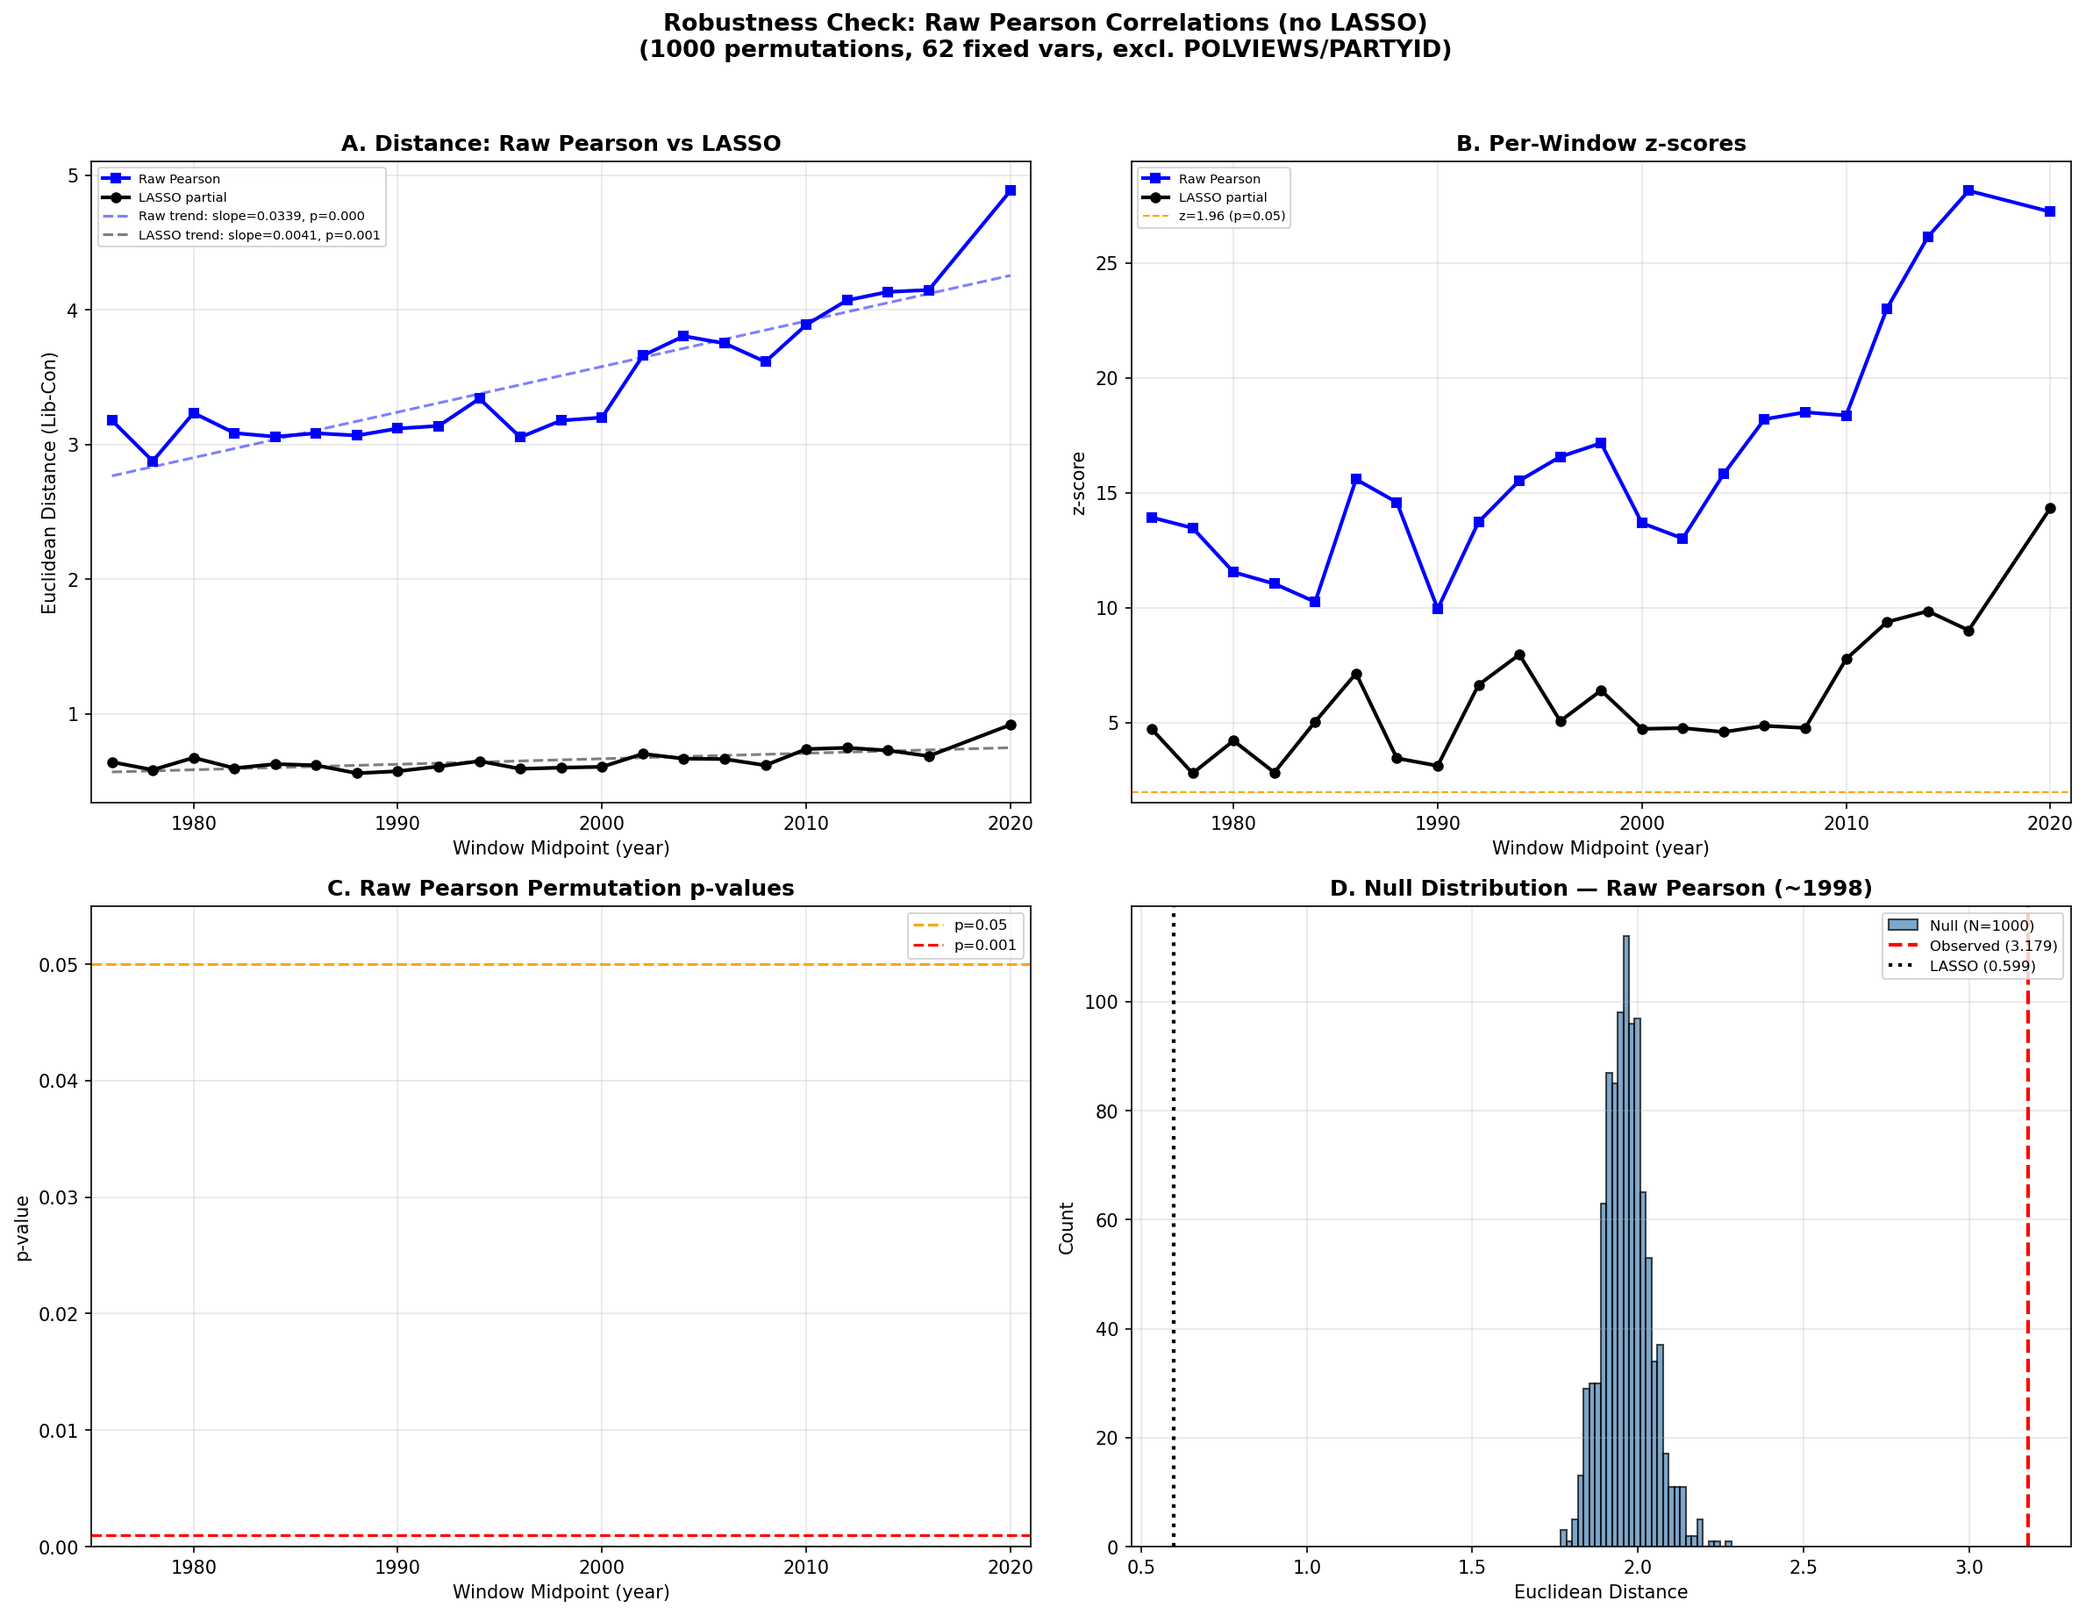
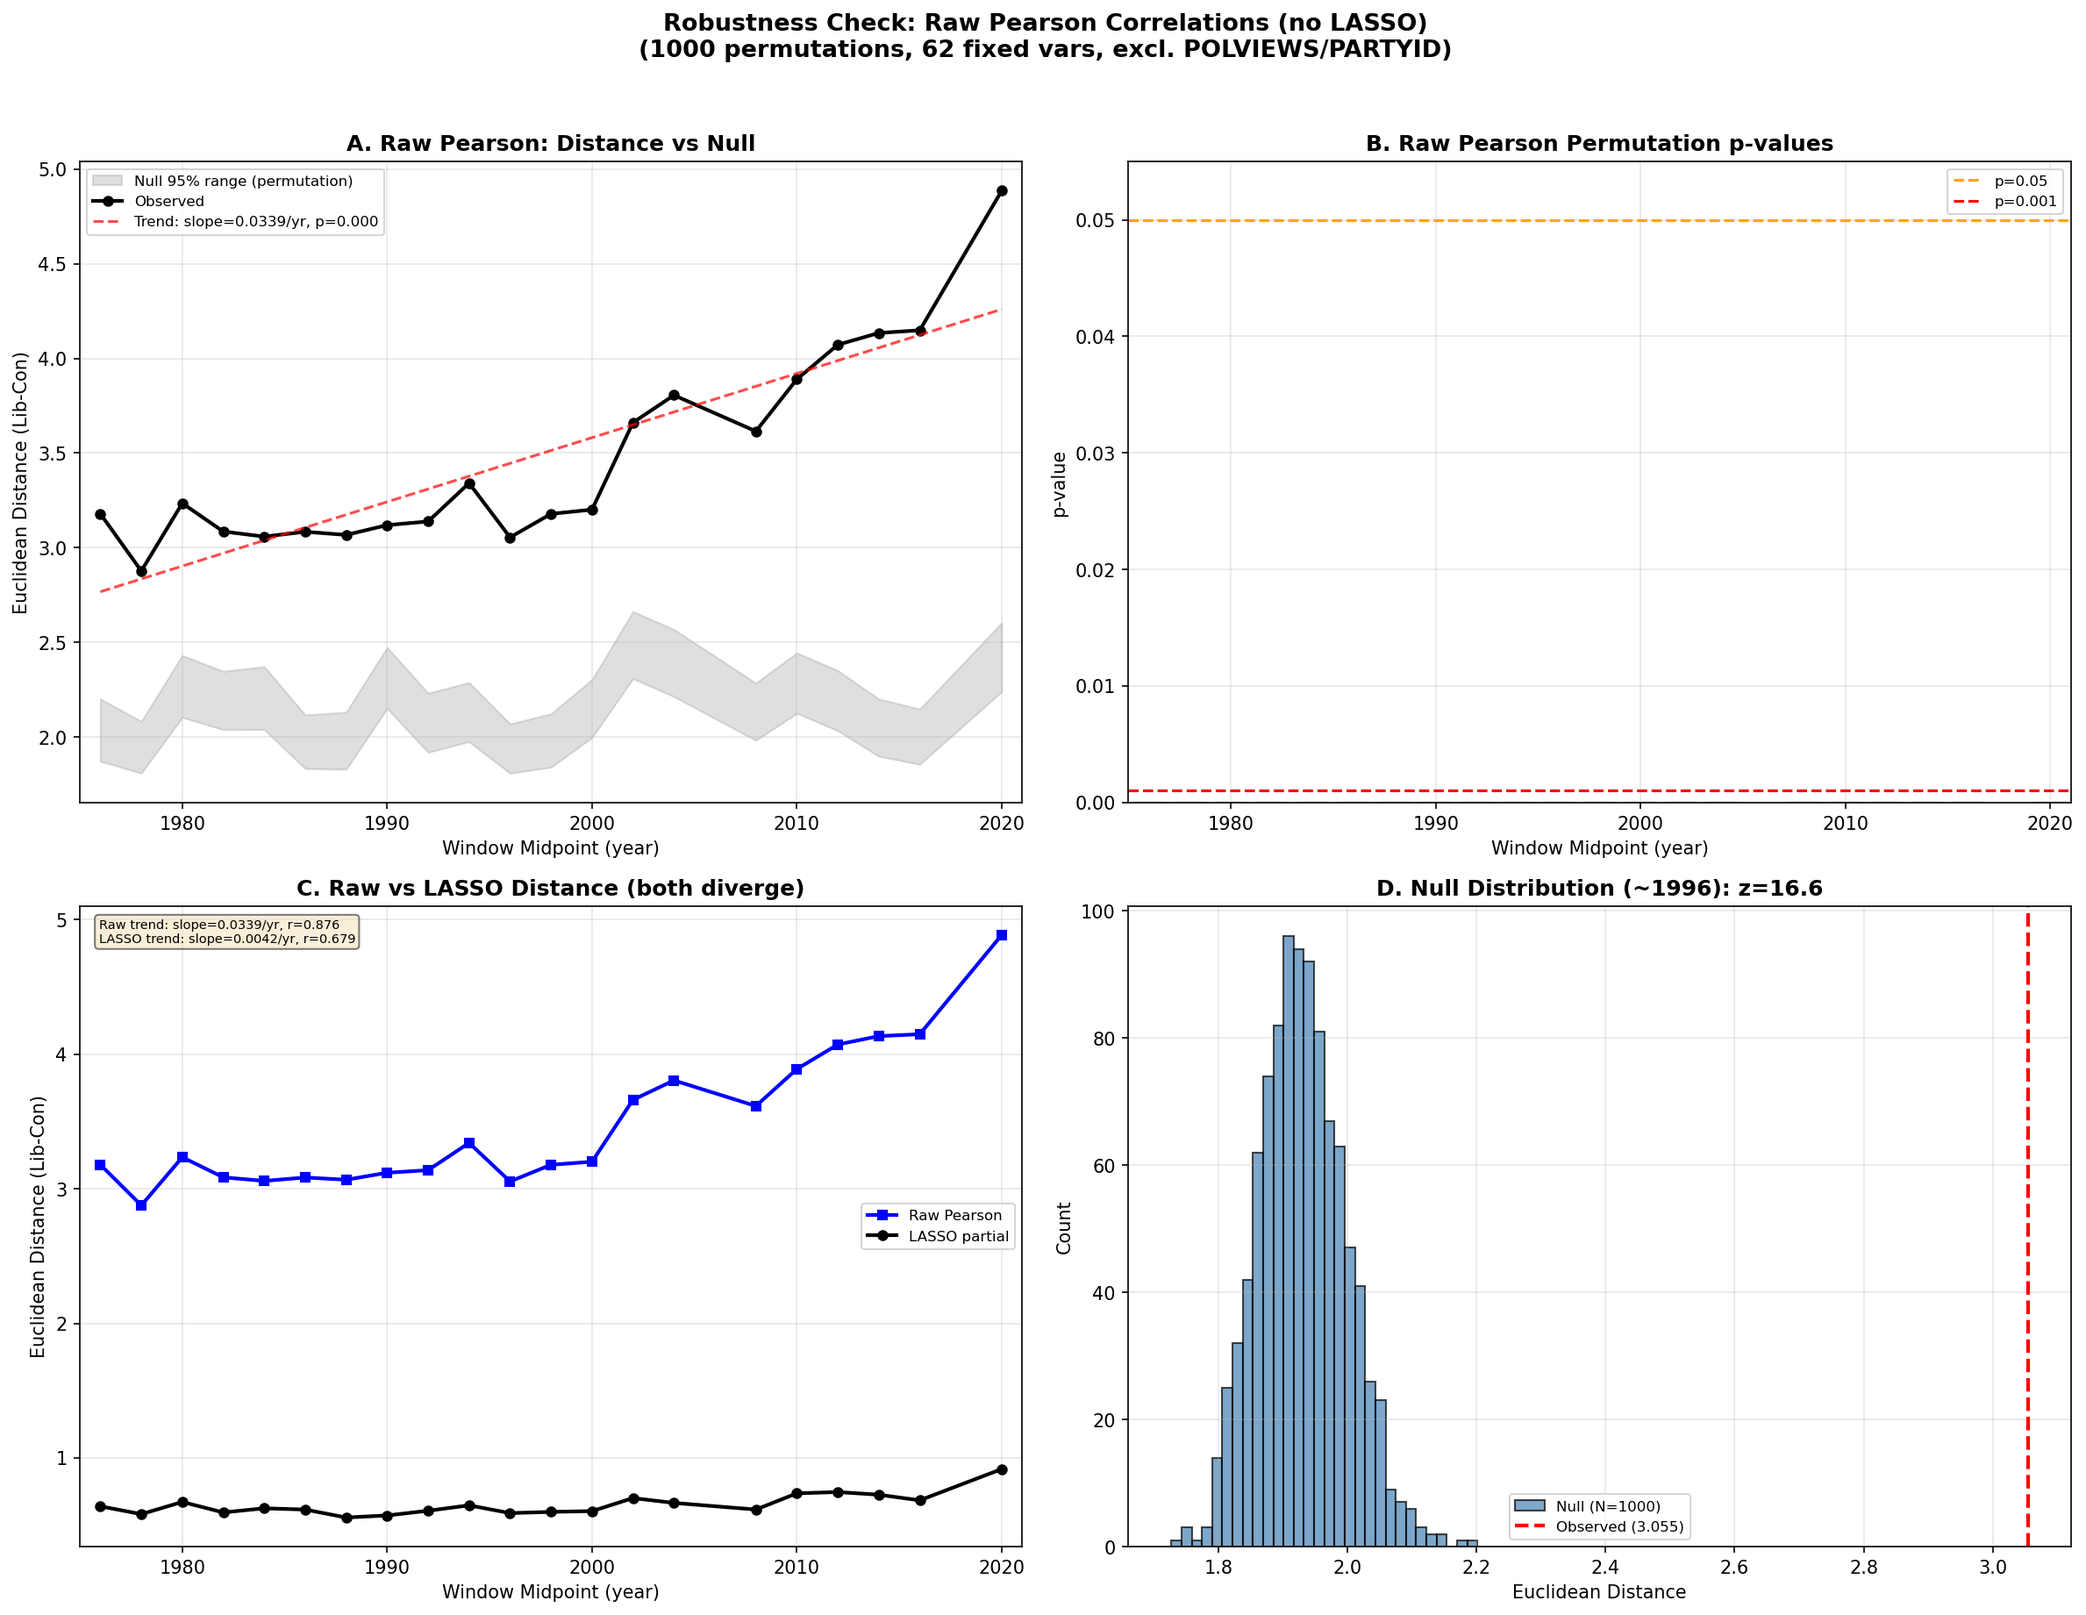
Embed figure links in all writeups and fix sound_10 figure layout
Add ![](../figures/...) image links to all 10 analysis writeups that
were missing them, so figures are easy to find from the markdown.

Redesign sound_10 figure: panel A now shows raw Pearson distance
against null band (proving significance on its own), panel B shows
per-window p-values, panel C compares raw vs LASSO as context, and
panel D shows an example null distribution with z-score in the title.

diff --git a/scripts/sound_10_raw_pearson_robustness.py b/scripts/sound_10_raw_pearson_robustness.py
@@ -255,48 +255,26 @@ def main():
     fig, axes = plt.subplots(2, 2, figsize=(16, 12))
     mid = df_res["mid_year"].values
 
-    # Panel A: Raw vs LASSO distance over time
+    # Panel A: Raw Pearson distance with null band (shows significance alone)
     ax = axes[0, 0]
-    ax.plot(mid, df_res["raw_distance"], "bs-", linewidth=2, markersize=5,
-            label="Raw Pearson")
-    if lasso_mask.any():
-        ax.plot(df_res.loc[lasso_mask, "mid_year"],
-                df_res.loc[lasso_mask, "lasso_distance"],
-                "ko-", linewidth=2, markersize=5, label="LASSO partial")
-    # Trend lines
+    null_lo = np.array([np.percentile(r["null_distances"], 2.5) for r in results])
+    null_hi = np.array([np.percentile(r["null_distances"], 97.5) for r in results])
+    ax.fill_between(mid, null_lo, null_hi, alpha=0.25, color="gray",
+                     label="Null 95% range (permutation)")
+    ax.plot(mid, df_res["raw_distance"], "ko-", linewidth=2, markersize=5,
+            label="Observed")
     x = mid.astype(float)
     i_raw = linregress(x, df_res["raw_distance"].values).intercept
-    ax.plot(x, i_raw + sl_raw * x, "b--", alpha=0.5,
-            label=f"Raw trend: slope={sl_raw:.4f}, p={p_raw:.3f}")
-    if not np.isnan(sl_lasso):
-        x_l = df_res.loc[lasso_mask, "mid_year"].values.astype(float)
-        i_l = linregress(x_l, df_res.loc[lasso_mask, "lasso_distance"].values).intercept
-        ax.plot(x_l, i_l + sl_lasso * x_l, "k--", alpha=0.5,
-                label=f"LASSO trend: slope={sl_lasso:.4f}, p={p_lasso:.3f}")
+    ax.plot(x, i_raw + sl_raw * x, "r--", alpha=0.7,
+            label=f"Trend: slope={sl_raw:.4f}/yr, p={p_raw:.3f}")
     ax.set_xlabel("Window Midpoint (year)")
     ax.set_ylabel("Euclidean Distance (Lib-Con)")
-    ax.set_title("A. Distance: Raw Pearson vs LASSO", fontweight="bold")
-    ax.legend(fontsize=7)
+    ax.set_title("A. Raw Pearson: Distance vs Null", fontweight="bold")
+    ax.legend(fontsize=8)
     ax.grid(True, alpha=0.3)
 
-    # Panel B: Raw z-scores vs LASSO z-scores
+    # Panel B: Raw p-values per window
     ax = axes[0, 1]
-    ax.plot(mid, df_res["raw_z"], "bs-", linewidth=2, markersize=5,
-            label="Raw Pearson")
-    if lasso_mask.any():
-        ax.plot(df_res.loc[lasso_mask, "mid_year"],
-                df_res.loc[lasso_mask, "lasso_z"],
-                "ko-", linewidth=2, markersize=5, label="LASSO partial")
-    ax.axhline(1.96, color="orange", linewidth=1, linestyle="--",
-               label="z=1.96 (p=0.05)")
-    ax.set_xlabel("Window Midpoint (year)")
-    ax.set_ylabel("z-score")
-    ax.set_title("B. Per-Window z-scores", fontweight="bold")
-    ax.legend(fontsize=7)
-    ax.grid(True, alpha=0.3)
-
-    # Panel C: Raw p-values
-    ax = axes[1, 0]
     p_vals = df_res["raw_p"].values
     colors = ["green" if p < 0.001 else "blue" if p < 0.05 else "red"
               for p in p_vals]
@@ -305,10 +283,29 @@ def main():
     ax.axhline(0.001, color="red", linewidth=1.5, linestyle="--", label="p=0.001")
     ax.set_xlabel("Window Midpoint (year)")
     ax.set_ylabel("p-value")
-    ax.set_title("C. Raw Pearson Permutation p-values", fontweight="bold")
+    ax.set_title("B. Raw Pearson Permutation p-values", fontweight="bold")
     ax.legend(fontsize=8)
     ax.grid(True, alpha=0.3)
     ax.set_ylim(bottom=0)
+
+    # Panel C: Raw vs LASSO distance comparison
+    ax = axes[1, 0]
+    ax.plot(mid, df_res["raw_distance"], "bs-", linewidth=2, markersize=5,
+            label="Raw Pearson")
+    if lasso_mask.any():
+        ax.plot(df_res.loc[lasso_mask, "mid_year"],
+                df_res.loc[lasso_mask, "lasso_distance"],
+                "ko-", linewidth=2, markersize=5, label="LASSO partial")
+    ax.set_xlabel("Window Midpoint (year)")
+    ax.set_ylabel("Euclidean Distance (Lib-Con)")
+    ax.set_title("C. Raw vs LASSO Distance (both diverge)", fontweight="bold")
+    ax.legend(fontsize=8)
+    ax.grid(True, alpha=0.3)
+    # Note different y-axis scales
+    ax.text(0.02, 0.98, f"Raw trend: slope={sl_raw:.4f}/yr, r={r_raw:.3f}\n"
+            f"LASSO trend: slope={sl_lasso:.4f}/yr, r={r_lasso:.3f}" if not np.isnan(sl_lasso) else "",
+            transform=ax.transAxes, fontsize=7, verticalalignment="top",
+            bbox=dict(boxstyle="round", facecolor="wheat", alpha=0.5))
 
     # Panel D: Example null distribution (middle window)
     ax = axes[1, 1]
@@ -320,13 +317,10 @@ def main():
             label=f"Null (N={len(nd)})")
     ax.axvline(obs_d, color="red", linewidth=2, linestyle="--",
                label=f"Observed ({obs_d:.3f})")
-    if not np.isnan(repr_res["lasso_distance"]):
-        ax.axvline(repr_res["lasso_distance"], color="black", linewidth=2,
-                   linestyle=":", label=f"LASSO ({repr_res['lasso_distance']:.3f})")
     ax.set_xlabel("Euclidean Distance")
     ax.set_ylabel("Count")
-    ax.set_title(f"D. Null Distribution — Raw Pearson "
-                 f"(~{repr_res['mid_year']:.0f})", fontweight="bold")
+    ax.set_title(f"D. Null Distribution (~{repr_res['mid_year']:.0f}): "
+                 f"z={repr_res['raw_z']:.1f}", fontweight="bold")
     ax.legend(fontsize=8)
     ax.grid(True, alpha=0.3)
 

diff --git a/analyses/2026-02_sound-divergence-anatomy.md b/analyses/2026-02_sound-divergence-anatomy.md
@@ -141,3 +141,13 @@ The pattern is substantively coherent: conservatives increasingly organize their
 5. **Centrality is the key structural divergence.** The groups increasingly disagree on which beliefs are structurally central (rho declining from 0.79 to 0.58, p<0.0001). Conservatives are centering their networks around prayer, discipline, and military; liberals around urban policy, foreign aid, and police accountability.
 
 6. **The divergence is broadly distributed.** No single edge or small set of edges drives the divergence — it's spread across hundreds of edges, with the fastest-diverging spanning racial attitudes, partisan alignment, institutional trust, and morality/child-rearing crossovers.
+
+## Figures
+
+![Sign disagreements](../figures/sound_04_sign_disagree.png)
+![Dimensionality](../figures/sound_04_dimensionality.png)
+![Top diverging/converging edges](../figures/sound_04_top_edges.png)
+![Domain decomposition](../figures/sound_04_domain_decomp.png)
+![Domain within vs between](../figures/sound_04_domain_within_between.png)
+![Modularity](../figures/sound_04_modularity.png)
+![Centrality rank correlation](../figures/sound_04_centrality_rank.png)

diff --git a/analyses/2026-02_sound-single-network.md b/analyses/2026-02_sound-single-network.md
@@ -120,3 +120,11 @@ Edge sign distribution: 243 positive (64.6%), 133 negative (35.4%). Even with th
 2. **Communities map onto interpretable domains**: political, civil liberties, morality, institutional confidence, spending, abortion, child-rearing, policing, religion, and social trust.
 3. **Centrality is not just PC1 loading** (r=0.415 for betweenness). The most interesting nodes are *bridge variables* (NATFARE, AFFRMACT, CONLEGIS) that connect different belief domains without strongly loading on the dominant dimension.
 4. **99% structural balance is highly significant** (p < 0.001). This is not a trivial consequence of the graph structure -- it reflects genuine consistency in how beliefs relate to each other.
+
+## Figures
+
+![Scree plot](../figures/sound_01_scree.png)
+![PC loadings scatter](../figures/sound_01_loadings_scatter.png)
+![Centrality vs PC1](../figures/sound_01_centrality_vs_pc1.png)
+![Communities](../figures/sound_01_communities.png)
+![Balance null model](../figures/sound_01_balance_null.png)

diff --git a/analyses/2026-03_sound-structural-evolution.md b/analyses/2026-03_sound-structural-evolution.md
@@ -68,3 +68,12 @@ Centrality rankings are highly stable window-to-window. Conservative networks sh
 3. **Culture war issues are losing structural importance.** Variables about homosexuality, marijuana, and pornography are becoming less central — not because they're unimportant, but because consensus is forming. When everyone agrees, the variable no longer differentiates.
 
 4. **Religion is rising in centrality.** CONCLERG and RELIG_None are gaining connections, reflecting the increasing structural role of religiosity in organizing the full belief system.
+
+## Figures
+
+![NMI trajectory](../figures/sound_05_nmi_trajectory.png)
+![Centrality rank correlation](../figures/sound_05_centrality_rank_corr.png)
+![Centrality gainers and losers](../figures/sound_05_centrality_gainers_losers.png)
+![Hub degree top 10](../figures/sound_05_hub_degree_top10.png)
+![Community cores](../figures/sound_05_community_cores.png)
+![Community switchers](../figures/sound_05_community_switchers.png)

diff --git a/analyses/2026-02_baseline-comparisons.md b/analyses/2026-02_baseline-comparisons.md
@@ -150,3 +150,7 @@ Interactive temporal network visualization (1976–2020) saved to: `outputs/base
 3. **Liberal networks are denser:** Liberals have 27% more edges than conservatives, suggesting more interconnected belief systems. Conservatives show more distinct belief communities (higher spectral gap).
 4. **Structural balance is universal:** All networks (early, late, liberal, conservative) show >98.8% balanced triads with the same tension points (child-rearing values, religion categories).
 5. **Centrality shifted from civil liberties to partisanship:** Bridge variables moved from tolerance/spending items (early) to partisan voting and cultural issues (late).
+
+## Figures
+
+![Comparison](../figures/baseline_03_comparison.png)

diff --git a/analyses/2026-02_sound-lib-con-comparison.md b/analyses/2026-02_sound-lib-con-comparison.md
@@ -111,3 +111,9 @@ However, the conservative network has **higher clustering** (0.421 vs 0.369) and
 3. **Liberals have a denser network even after matching** (405 vs 356 edges). This is robust to sample size.
 4. **Conservatives have higher clustering** (0.421 vs 0.369), suggesting tighter local belief clusters despite fewer total connections.
 5. **Community structure reorganizes:** Conservatives merge abortion with morality and integrate partisan identity into the policy cluster. Liberals keep these domains more separate.
+
+## Figures
+
+![Permutation test](../figures/sound_02_permutation.png)
+![Edge differences](../figures/sound_02_edge_diffs.png)
+![Communities](../figures/sound_02_communities.png)

diff --git a/analyses/2026-02_baseline-data-landscape.md b/analyses/2026-02_baseline-data-landscape.md
@@ -64,3 +64,10 @@ After cleaning (all variables mapped to [-1, 1]):
 2. Variable availability increases substantially over time, which affects temporal comparisons.
 3. Most core attitude variables are reasonably symmetric after cleaning, but some consensus items and rare-category indicators are heavily skewed.
 4. Analysts should be cautious about early-period networks having fewer variables (77 vs 130).
+
+## Figures
+
+![Respondents per year](../figures/baseline_01_respondents_per_year.png)
+![Availability heatmap](../figures/baseline_01_availability_heatmap.png)
+![Overlap matrix](../figures/baseline_01_overlap_matrix.png)
+![Response distributions](../figures/baseline_01_distributions.png)

diff --git a/analyses/2026-02_sound-lib-con-temporal.md b/analyses/2026-02_sound-lib-con-temporal.md
@@ -73,3 +73,8 @@ The acceleration after ~2004 is notable and coincides with increased political p
 2. **Liberals have always had denser networks** -- this is not a recent phenomenon or a sample size artifact.
 3. **Network similarity is declining** (Pearson r: 0.90 -> 0.80) -- the two groups increasingly disagree on which beliefs are connected.
 4. **Conservative clustering advantage is not stable** -- it appears in some periods but not others.
+
+## Figures
+
+![Temporal trajectories](../figures/sound_03_trajectories.png)
+![Structural differences](../figures/sound_03_differences.png)

diff --git a/analyses/2026-02_baseline-network-anatomy.md b/analyses/2026-02_baseline-network-anatomy.md
@@ -134,3 +134,8 @@ Interactive HTML visualization saved to: `outputs/baseline_reference_network_200
 2. HOMOSEX and PRESLAST_DEMREP are the most central beliefs, bridging moral/religious and political/partisan clusters.
 3. The network is overwhelmingly structurally balanced (99%) with very low frustration.
 4. The only tension points involve child-rearing values (OBEY vs THNKSELF) and religion category indicators.
+
+## Figures
+
+![Degree distribution](../figures/baseline_02_degree_dist.png)
+![Communities](../figures/baseline_02_communities.png)

diff --git a/analyses/2026-03_sound-robustness.md b/analyses/2026-03_sound-robustness.md
@@ -120,3 +120,7 @@ All core findings survive the robustness checks. The divergence trend is not
 an artifact of changing variable counts, is stable across regularization levels,
 and is not driven by the circularity of including POLVIEWS/PARTYID as nodes.
 The paper's temporal claims can be stated with confidence.
+
+## Figures
+
+![Robustness checks](../figures/sound_07_robustness.png)

diff --git a/analyses/2026-03_corrected-inference.md b/analyses/2026-03_corrected-inference.md
@@ -127,3 +127,7 @@ For the paper, we recommend:
 3. **Report Durbin-Watson**: Shows the autocorrelation structure explicitly
 4. **FDR correction**: All per-variable results should use FDR-corrected q-values
 5. **Structural breaks**: Report segmented regression results
+
+## Figures
+
+![Corrected inference](../figures/sound_08_corrected_inference.png)
